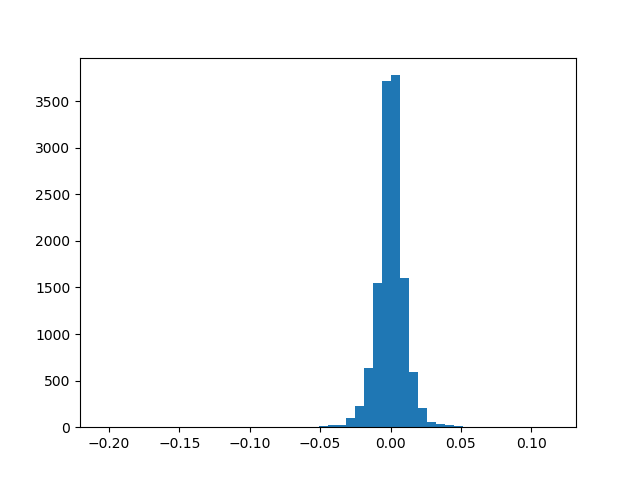
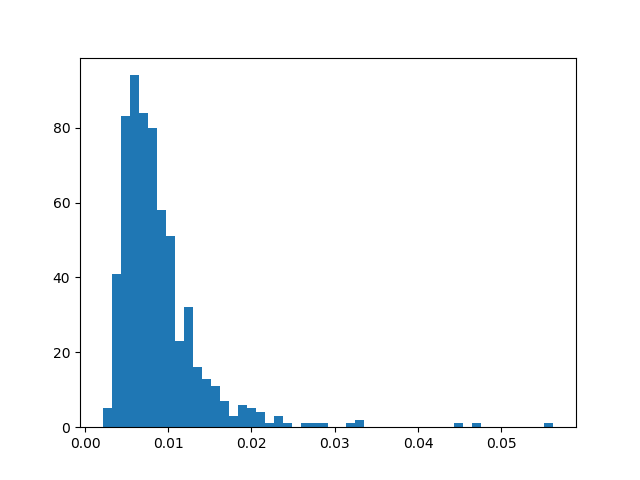
Caclulating mean and variance break points in the distribution to fit a poisson trend parameter.

diff --git a/distribution_utils.py b/distribution_utils.py
@@ -18,13 +18,15 @@ class Dist_Utils(object):
      mean = []
 
      def mean_breaks(self):
-         data = dt.data_iterator(self.RETURNS,20)
+         data = dt.data_iterator(self.RETURNS,50)
          shifts = []
          for i,d in enumerate(data):
-             p = self.adf_test(d)
-             if p < .5:
-                 shifts.append([i,p])
-         print(shifts)
+             p = np.std(d.to_numpy())
+             shifts.append(p)
+         plt.hist(shifts, bins= 50)
+         plt.savefig('variance over time .png')
+         plt.show()
+         print(shifts[:20],np.std(shifts))
 
 
      def adf_test(self,timeseries):
@@ -59,6 +61,7 @@ class Dist_Utils(object):
          """
 
 ob = Dist_Utils()
+ob.mean_breaks()
 # pd.Series.plot(ob.RETURNS)
 
 # plt.hist(ob.RETURNS.to_numpy(), bins= 50)

diff --git a/data_utilities.py b/data_utilities.py
@@ -7,7 +7,7 @@ import statistics as stats
 
 #slice_slices the data by row,this function returns rows x to y
 def slice(data,x,y):
-    return data.iloc[int(x)-1:int(y)-1,:]
+    return data.iloc[int(x):int(y)-1]
 
 
 
